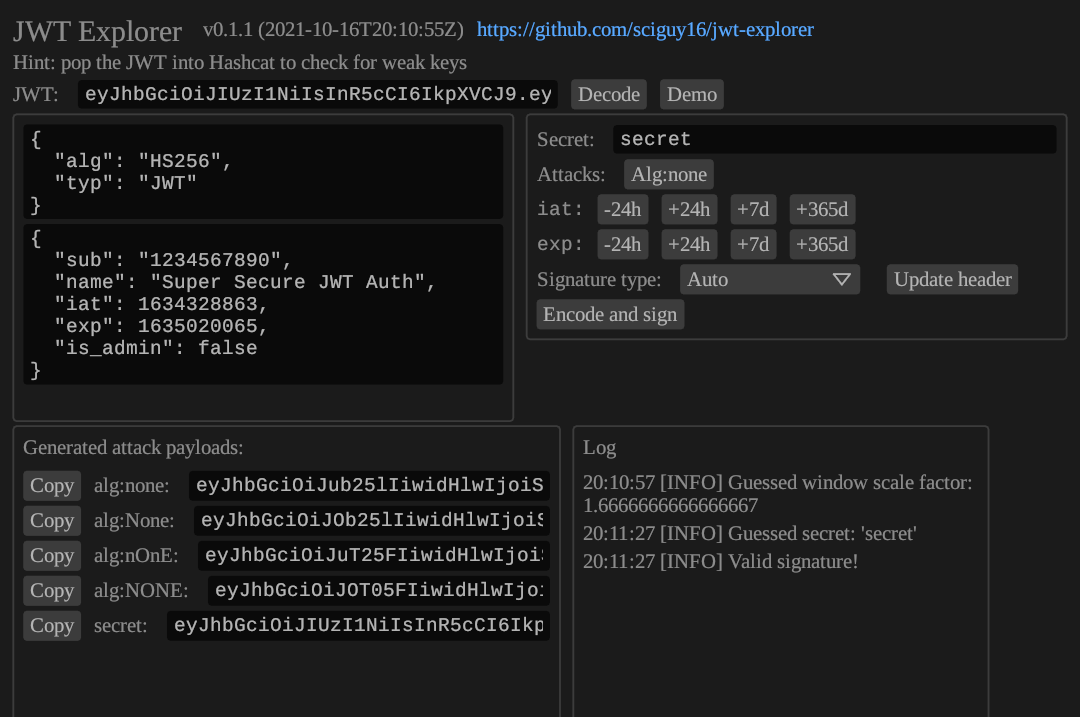
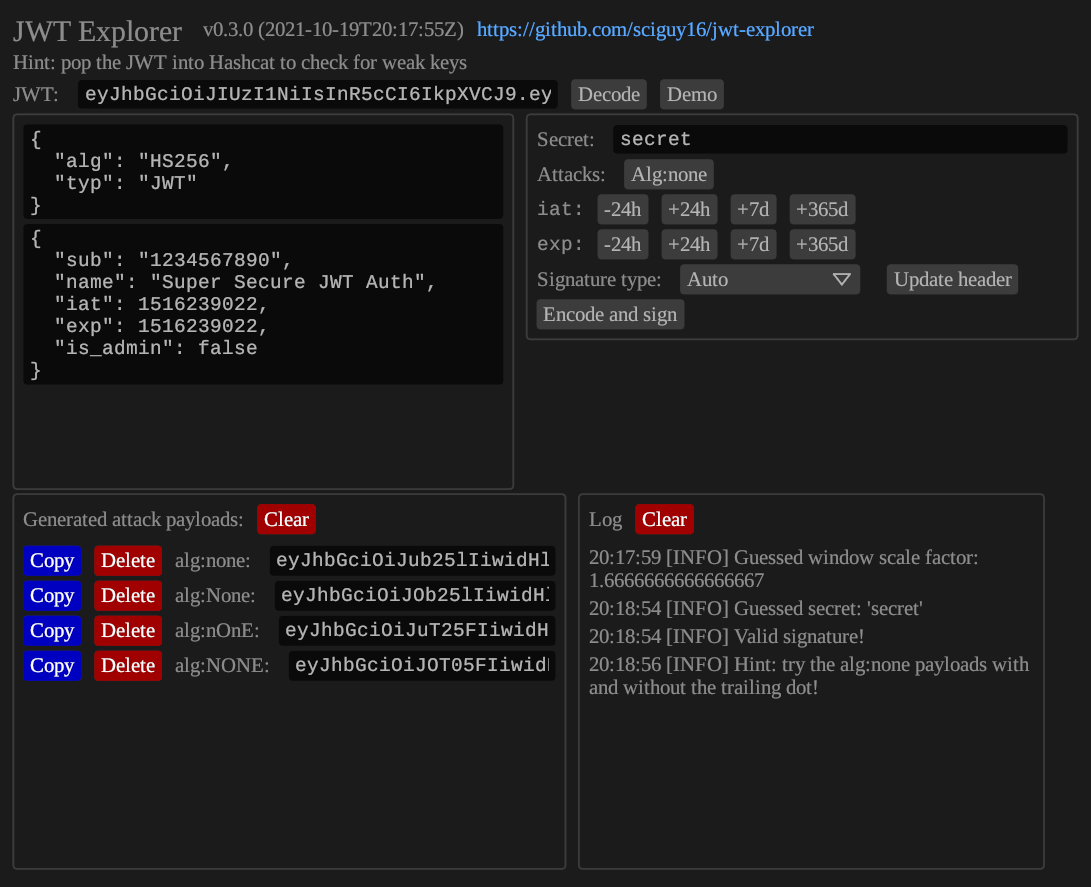
Update for release

Changed region(s): [[0.0, 0.0, 0.9778, 0.4909], [0.0, 0.5523, 0.9472, 0.9205], [0.8861, 0.583, 0.9167, 0.6137]]

diff --git a/Changelog.md b/Changelog.md
@@ -6,8 +6,6 @@ and this project adheres to [Semantic Versioning](https://semver.org/spec/v2.0.0
 
 ## [Unreleased]
 ### Added
-* Add UI buttons to delete generated tokens and clear the entire list
-* Add UI button to clear log entries
 
 ### Changed
 
@@ -19,6 +17,11 @@ and this project adheres to [Semantic Versioning](https://semver.org/spec/v2.0.0
 
 ### Security
 
+
+## [v0.3.0]
+### Added
+* Add UI buttons to delete generated tokens and clear the entire list
+* Add UI button to clear log entries
 
 ## [v0.2.0]
 ### Changed

diff --git a/README.md b/README.md
@@ -1,5 +1,9 @@
 # JWT Explorer
 
+A utility for inspecting, modifying, and attacking JWTs.
+
+Supports Windows and Linux and probably also works on macOS but this has not been tested.
+
 ![Overview of JWT Explorer](images/overview.png)
 
 ## Usage
@@ -7,6 +11,8 @@
 ```bash
 cargo run --release
 ```
+
+Or download the latest release for your platform from [the releases page](https://github.com/sciguy16/jwt-explorer/releases)!
 
 ## Features
 
